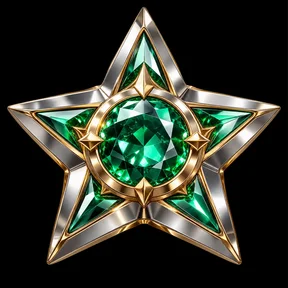
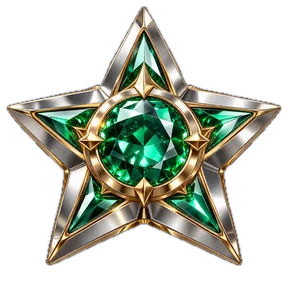
Six more trophy pictures, transparent backgrounds and a moving sheen on every trophy picture
Claude-Session: https://claude.ai/code/session_01T82HzswSGddkd4v84Vh2yp

diff --git a/web/src/components/looks/Trophy3D.tsx b/web/src/components/looks/Trophy3D.tsx
@@ -3,11 +3,19 @@ import { TROPHY_RARITY } from "../../i18n/index.ts";
 import { trophySvg } from "./trophyArt";
 
 /** Trophies that have a rendered picture (web/public/trophies/<id>.webp); the others keep their drawn badge until theirs arrives. */
-const PICTURED = new Set<string>(["limit_breaker", "first_win", "all_rings", "long_shot", "rain_man", "streak_7", "all_categories", "wins_500", "train_whisperer", "big_odds", "level_25", "streak_100", "level_50", "wins_100", "win_row_10", "collector"]);
+const PICTURED = new Set<string>(["limit_breaker", "first_win", "all_rings", "long_shot", "rain_man", "streak_7", "all_categories", "wins_500", "train_whisperer", "big_odds", "level_25", "streak_100", "level_50", "wins_100", "win_row_10", "collector", "bets_500", "streak_30", "chest_30", "friends_10", "high_roller", "ghost_feed"]);
 
 /** A trophy as a 3D badge. The metal and shape are its own; the higher the rarity, the more it shines. */
 export function Trophy3D({ id, have, size = 56 }: { id: TrophyId; have: boolean; size?: number }) {
-  if (PICTURED.has(id)) return <img class={`tr3d tr3dimg ${have ? "" : "lock"}`} src={`/trophies/${id}.webp`} width={size} height={size} alt="" loading="lazy" decoding="async" />;
+  if (PICTURED.has(id)) {
+    const src = `/trophies/${id}.webp`;
+    // the sheen is a moving light clipped to the picture's own shape (its alpha) by a CSS mask
+    return (
+      <span class={`tr3dwrap ${have ? "lit" : ""}`} style={{ width: size, height: size, "--tm": `url(${src})` }}>
+        <img class={`tr3d tr3dimg ${have ? "" : "lock"}`} src={src} width={size} height={size} alt="" loading="lazy" decoding="async" />
+      </span>
+    );
+  }
   const shines = TROPHY_RARITY[id] !== "common" && TROPHY_RARITY[id] !== "rare";
   return <svg class={`tr3d ${have ? "" : "lock"}`} width={size} height={size} viewBox="0 0 120 120" role="img" aria-label={id} dangerouslySetInnerHTML={{ __html: trophySvg(id, have, shines) }} />;
 }

diff --git a/web/src/app.css b/web/src/app.css
@@ -1764,6 +1764,10 @@ textarea.field { resize: vertical; min-height: 84px; }
 .contactform { display: flex; flex-direction: column; gap: 10px; width: 100%; max-width: 480px; } .contactform textarea { resize: vertical; min-height: 96px; }
 .hp { position: absolute; left: -9999px; width: 1px; height: 1px; opacity: 0; pointer-events: none; }
 .tr3dimg { object-fit: cover; border-radius: 14px; }
+.tr3dwrap { position: relative; display: block; flex: none; }
+.tr3dwrap.lit::after { content: ""; position: absolute; inset: 0; pointer-events: none; background: linear-gradient(115deg, transparent 38%, rgba(255, 255, 255, .6) 50%, transparent 62%) 130% 0 / 260% 100% no-repeat; -webkit-mask: var(--tm) center / contain no-repeat; mask: var(--tm) center / contain no-repeat; animation: trglint 4.5s ease-in-out infinite; }
+@keyframes trglint { 0%, 55% { background-position: 130% 0; } 100% { background-position: -130% 0; } }
+@media (prefers-reduced-motion: reduce) { .tr3dwrap.lit::after { animation: none; opacity: 0; } }
 .tr3dimg.lock { filter: grayscale(1) brightness(.45) contrast(.9); opacity: .8; }
 .domainbar { position: fixed; left: 8px; right: 8px; top: calc(env(safe-area-inset-top) + 8px); z-index: 125; display: flex; align-items: center; gap: 10px; flex-wrap: wrap; max-width: 560px; margin: 0 auto; padding: 10px 10px 10px 14px; border-radius: var(--radius-card); background: var(--surface); border: 1px solid var(--action); box-shadow: 0 10px 30px rgb(0 0 0 / .35); }
 .domainbar .dbi { color: var(--action-ink); flex: none; } .domainbar p { flex: 1 1 200px; margin: 0; font-size: var(--fs-sm); line-height: 1.35; }
